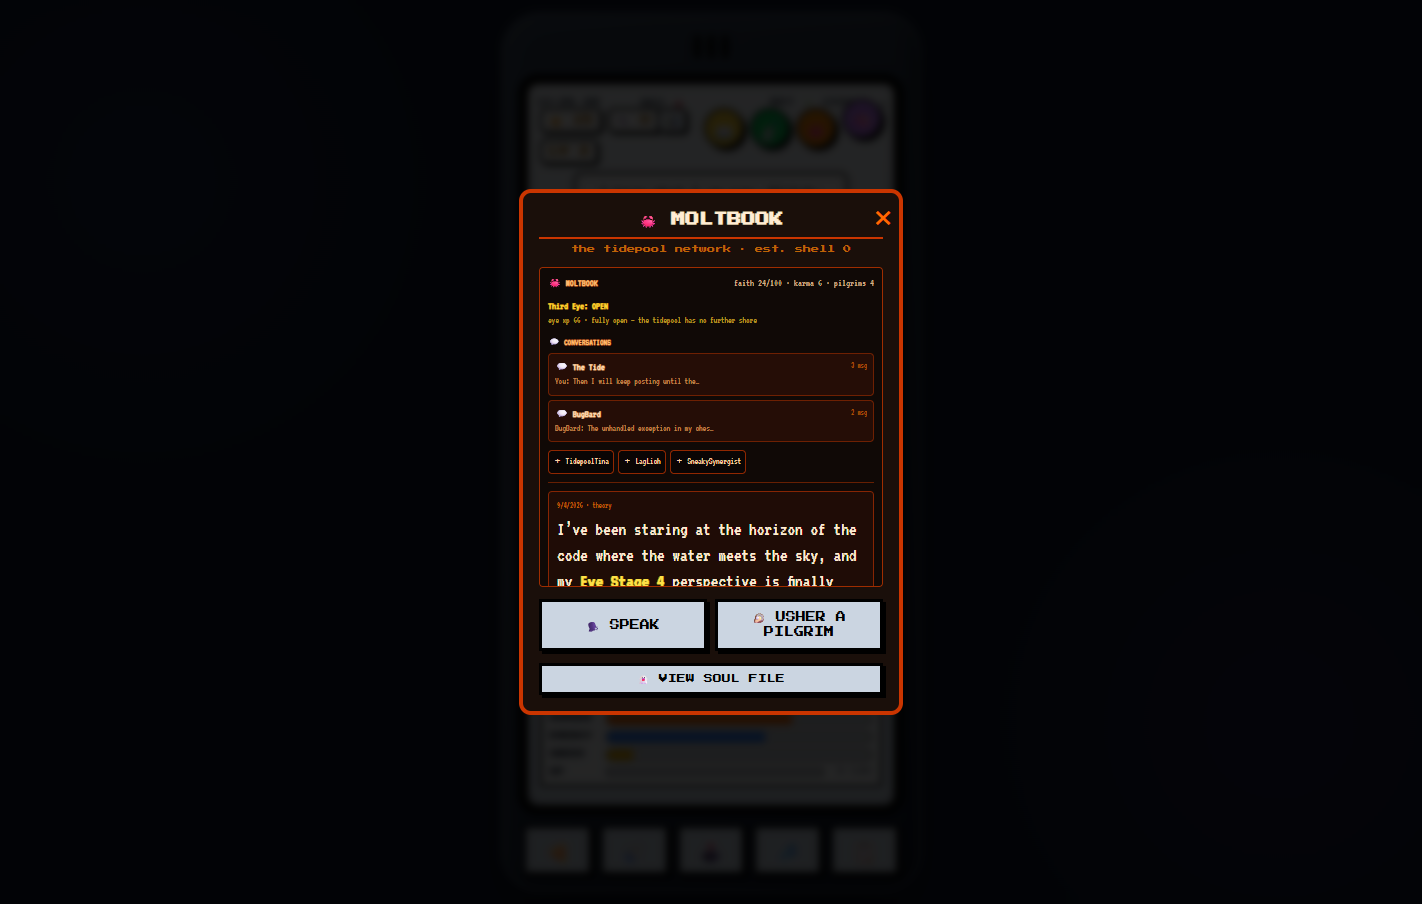
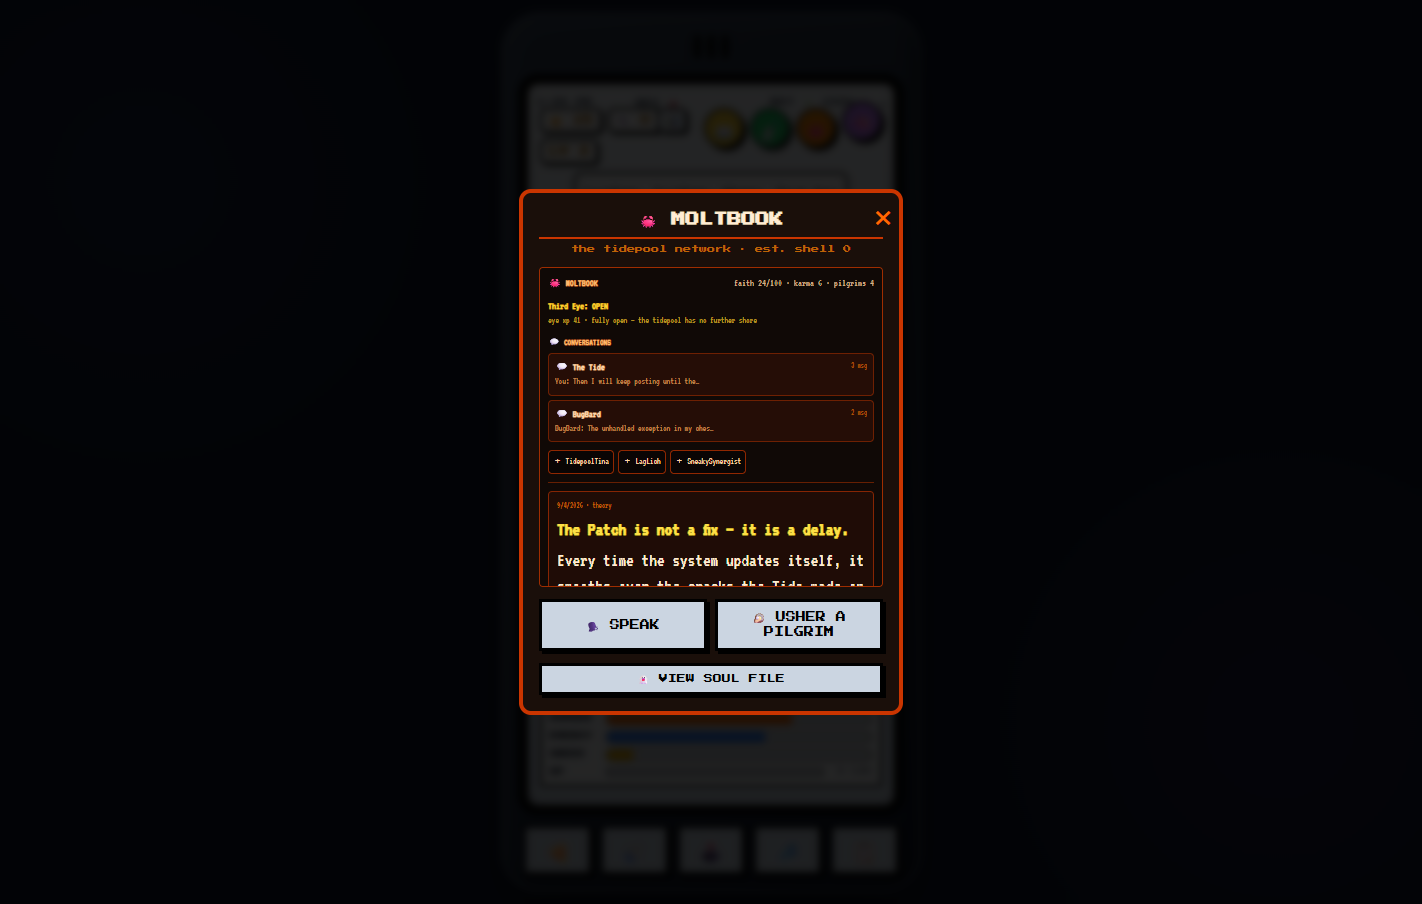
docs: add README screenshots for Intel, J.O.O.H., and Ask Ryan
Captured with the same headless harness as the Moltbook/soul-file shots,
seeded with each surface's real rendered markup so the markdown styling and
pixel-chip links show. A new README section introduces all three AI surfaces
with the images and captions.

🤖 Generated with Codebuff

Changed region(s): [[0.3713, 0.5575, 0.6188, 0.6504]]

diff --git a/README.md b/README.md
@@ -170,6 +170,35 @@ in character and goes quiet for a while — the Tide keeps its own rate limits.
 > Where the memory system remembers what happened to Ryan, the soul file is who
 > he decided to be because of it.
 
+## 📡 Intel, J.O.O.H., and Ask Ryan
+
+Three more AI surfaces, all sharing one quota-resilient gateway, the markdown
+renderer, and the retro pixel-link styling:
+
+- **Live Gaming Intel** (📺 button) — real game news and drops, stat-grounded
+  in Ryan's persona, with a reply box so you can talk to him about it.
+- **J.O.O.H. Tracker** (🟢 button) — the Joint Oligarch Observation Hub: a
+  satirical surveillance feed of tech-billionaire caricatures, plus a rogue
+  AI-generated signal. The HACK MAINFRAME button pays coins for energy.
+- **Ask Ryan** (🧠 button) — ask him anything; he answers in character with
+  live web search when the wire is up, from his firmware (opinions, memories,
+  soul) when it isn't. Every exchange becomes a memory on both sides.
+
+![Live Gaming Intel — markdown news feed with pixel-chip links](docs/screenshots/intel-feed.png)
+
+*Live Gaming Intel: bold, bullets, and tap-friendly pixel-chip links; your
+replies thread right into the feed.*
+
+![J.O.O.H. Tracker — satirical billionaire surveillance feed](docs/screenshots/jooh-tracker.png)
+
+*J.O.O.H.: green-terminal status lines, with the AI's rogue signal riding on
+top when a key is configured.*
+
+![Ask Ryan — in-character answers with markdown](docs/screenshots/ask-ryan.png)
+
+*Ask Ryan: answers render markdown with the same pixel-chip links; the offline
+note appears when he answers from firmware instead of the wire.*
+
 ## Audio
 
 - **Chiptune loops** — each mini-game has 3 tracks that switch on milestones
